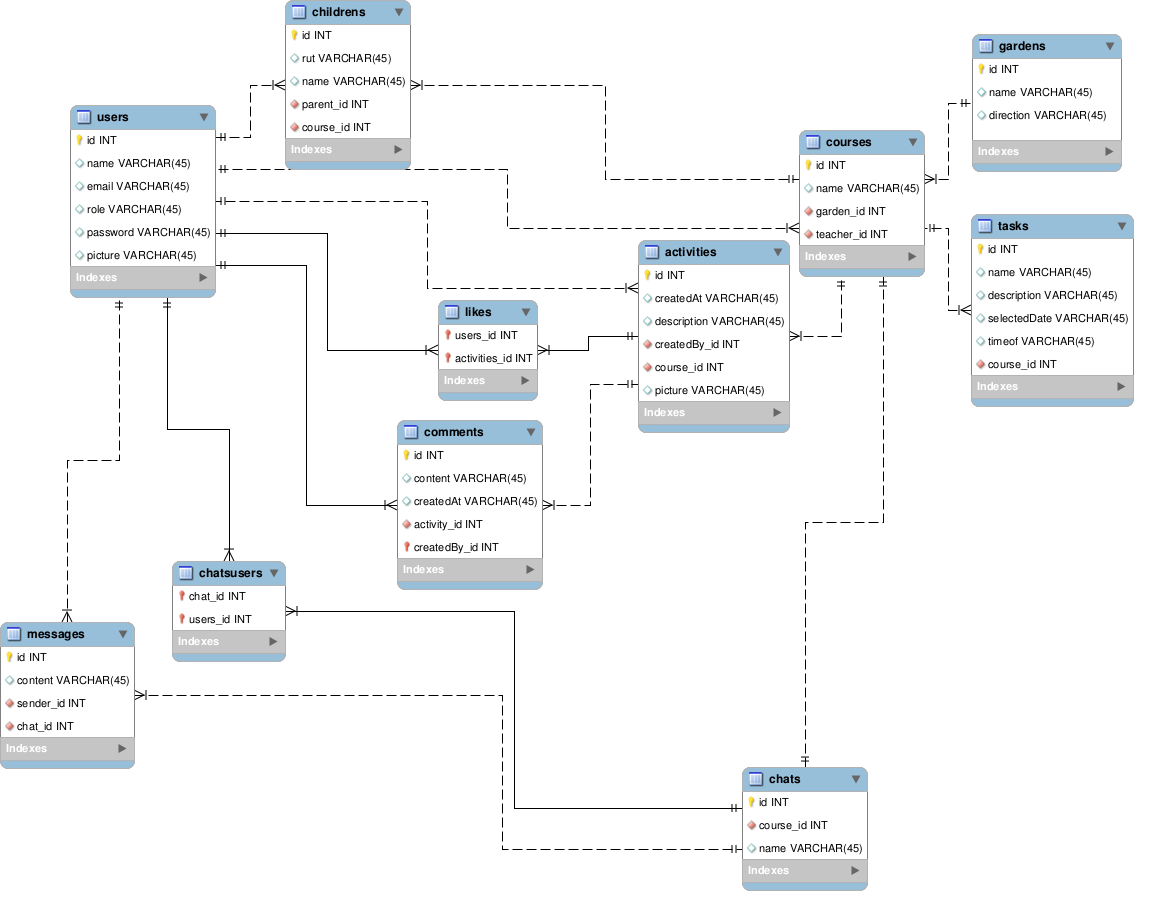
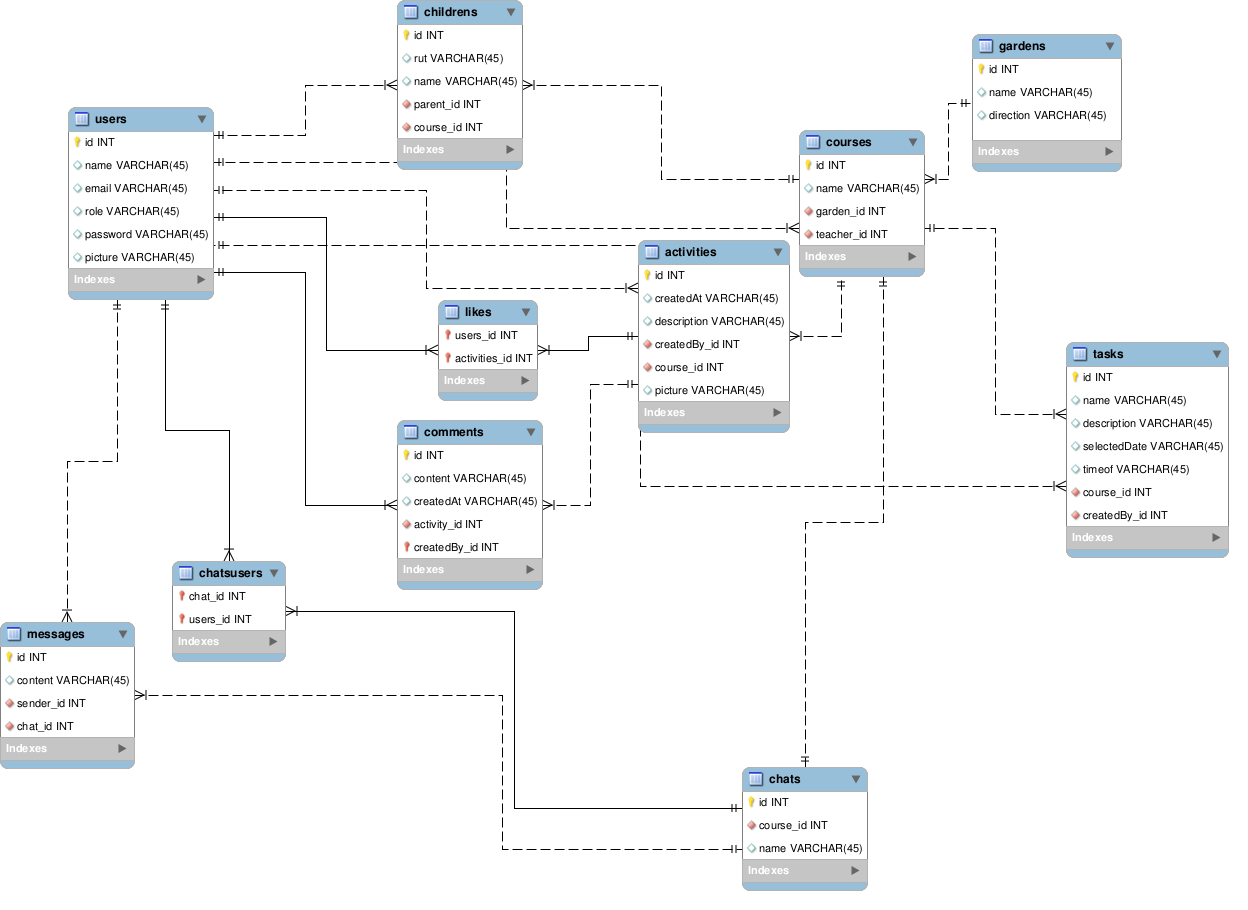
se agrega el endpoint que entrega todas las tareas de un curso

diff --git a/src/api/tasks/index.js b/src/api/tasks/index.js
@@ -2,12 +2,12 @@ import { Router } from 'express'
 import { middleware as query } from 'querymen'
 import { middleware as body } from 'bodymen'
 import { master, token } from '../../services/passport'
-import { create, index, show, update, destroy } from './controller'
+import { create, index, show, update, destroy, getTasksByCourseId } from './controller'
 import { schema } from './model'
 export Tasks, { schema } from './model'
 
 const router = new Router()
-const { name, description, selectedDate, timeof, course_id } = schema.tree
+const { name, description, selectedDate, timeof, course_id, createdBy_id } = schema.tree
 
 /**
  * @api {post} /tasks Create tasks
@@ -27,14 +27,13 @@ const { name, description, selectedDate, timeof, course_id } = schema.tree
  */
 router.post('/',
   master(),
-  body({ name, description, selectedDate, timeof, course_id }),
+  body({ name, description, selectedDate, timeof, course_id, createdBy_id }),
   create)
 
 /**
  * @api {get} /tasks Retrieve tasks
  * @apiName RetrieveTasks
  * @apiGroup Tasks
- * @apiPermission admin
  * @apiParam {String} access_token admin access token.
  * @apiUse listParams
  * @apiSuccess {Number} count Total amount of tasks.
@@ -43,7 +42,7 @@ router.post('/',
  * @apiError 401 admin access only.
  */
 router.get('/',
-  token({ required: true, roles: ['admin'] }),
+  token({ required: true }),
   query(),
   index)
 
@@ -51,7 +50,6 @@ router.get('/',
  * @api {get} /tasks/:id Retrieve tasks
  * @apiName RetrieveTasks
  * @apiGroup Tasks
- * @apiPermission admin
  * @apiParam {String} access_token admin access token.
  * @apiSuccess {Object} tasks Tasks's data.
  * @apiError {Object} 400 Some parameters may contain invalid values.
@@ -59,14 +57,29 @@ router.get('/',
  * @apiError 401 admin access only.
  */
 router.get('/:id',
-  token({ required: true, roles: ['admin'] }),
+  token({ required: true }),
   show)
+
+
+/**
+ * @api {get} /tasks/gettasksbycourseid/:id Retrieve tasks
+ * @apiName RetrieveTasks
+ * @apiGroup Tasks
+ * @apiParam {String} access_token admin access token.
+ * @apiSuccess {Object} tasks Tasks's data.
+ * @apiError {Object} 400 Some parameters may contain invalid values.
+ * @apiError 404 Tasks not found.
+ * @apiError 401 admin access only.
+ */
+router.get('/gettasksbycourseid/:id',
+  token({ required: true }),
+  getTasksByCourseId)
+
 
 /**
  * @api {put} /tasks/:id Update tasks
  * @apiName UpdateTasks
  * @apiGroup Tasks
- * @apiPermission admin
  * @apiParam {String} access_token admin access token.
  * @apiParam name Tasks's name.
  * @apiParam description Tasks's description.
@@ -79,22 +92,21 @@ router.get('/:id',
  * @apiError 401 admin access only.
  */
 router.put('/:id',
-  token({ required: true, roles: ['admin'] }),
-  body({ name, description, selectedDate, timeof, course_id }),
+  token({ required: true }),
+  body({ name, description, selectedDate, timeof, course_id, createdBy_id }),
   update)
 
 /**
  * @api {delete} /tasks/:id Delete tasks
  * @apiName DeleteTasks
  * @apiGroup Tasks
- * @apiPermission admin
  * @apiParam {String} access_token admin access token.
  * @apiSuccess (Success 204) 204 No Content.
  * @apiError 404 Tasks not found.
  * @apiError 401 admin access only.
  */
 router.delete('/:id',
-  token({ required: true, roles: ['admin'] }),
+  token({ required: true }),
   destroy)
 
 export default router

diff --git a/src/api/tasks/controller.js b/src/api/tasks/controller.js
@@ -39,3 +39,31 @@ export const destroy = ({ params }, res, next) =>
     .then((tasks) => tasks ? tasks.remove() : null)
     .then(success(res, 204))
     .catch(next)
+
+
+
+export const getTasksByCourseId = ({ params }, res, next) => 
+  Tasks.find().where('course_id')
+    .equals(params.id)
+    .then(notFound(res))
+    .then( async function( tasks ){
+
+       let respuesta = { courseTasks: tasks.map((tasks) => tasks.view()) }
+
+       // for( let i = 0 ; i < respuesta.teacherCourses.length ; i ++ )
+       // {
+       //   await Gardens.findById( respuesta.teacherCourses[i].garden_id ).then( (gardens) => {
+
+       //      respuesta.teacherCourses[i].garden_id = gardens.view()
+
+       //      User.findById( respuesta.teacherCourses[i].teacher_id ).then( (user) => {
+       //          respuesta.teacherCourses[i].teacher_id = user.view()
+       //        })
+
+       //    })      
+       // }
+
+      return  respuesta        
+    })
+    .then(success(res))
+    .catch(next)

diff --git a/src/api/tasks/model.js b/src/api/tasks/model.js
@@ -15,6 +15,9 @@ const tasksSchema = new Schema({
   },
   course_id: {
     type: String
+  },
+  createdBy_id: {
+    type: String
   }
 }, {
   timestamps: true,
